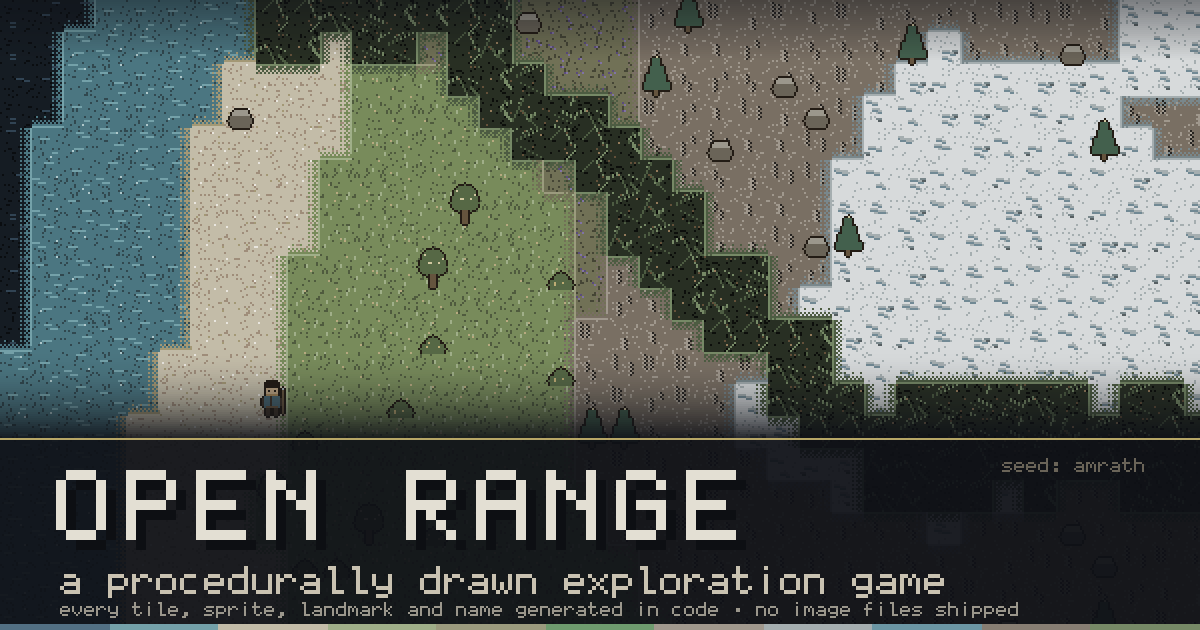
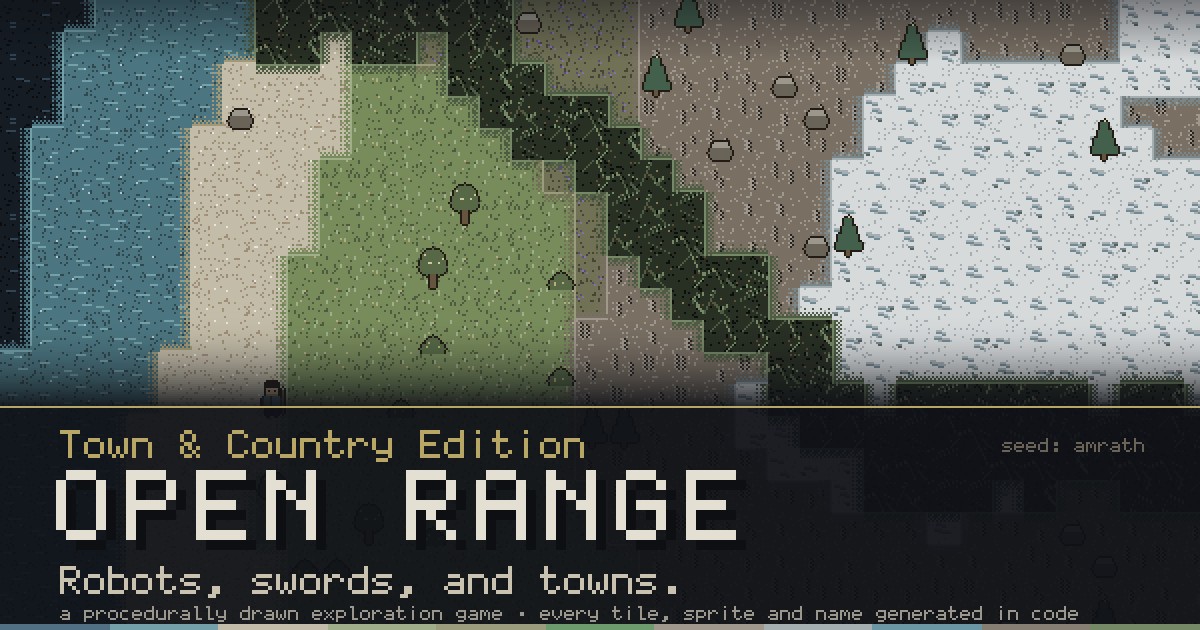
Reissue the card as the Town & Country Edition
The social card gains an edition name above the title and a line naming what is
actually in this build. The edition sits in the accent because it is the thing
that changed; the title is the thing that did not, and stays the largest words on
the card.

The two small lines below become one, so the band grows by exactly the one line
it gained rather than by two. The procedural claim survives in that merged line,
which is where it belongs now that the description is about the world rather than
about how the world is made.

Adding the name needed an ampersand, which the in-code 5x8 font did not have.
It is drawn here like every other glyph: five columns, a small bowl, and a tail
that kicks right on the baseline so it does not read as a lowercase e at title
size.

The landing hero is untouched, as it should be - it is captured before the title
band goes on, and it is the same frame of the same world it was.

Changed region(s): [[0.0, 0.5429, 1.0, 0.754], [0.0308, 0.9048, 0.8942, 0.9952]]

diff --git a/scripts/render-og-image.ts b/scripts/render-og-image.ts
@@ -219,7 +219,11 @@ async function main(): Promise<void> {
   // over textured terrain left the small lines barely readable. The band
   // guarantees contrast, and a short fade above it keeps the seam from looking
   // pasted on.
-  const BAND_H = 96;
+  // Taller than it was, by exactly the eyebrow line the edition name needs. The
+  // band is measured from the type it has to hold rather than chosen: every
+  // offset below is relative to `bandTop`, so this number and the layout cannot
+  // drift apart.
+  const BAND_H = 112;
   const FADE_H = 46;
   const bandTop = BASE_H - BAND_H;
 
@@ -242,17 +246,25 @@ async function main(): Promise<void> {
   ctx.fillRect(0, bandTop, BASE_W, 1);
 
   // --- Type ---
+  //
+  // Four lines, largest in the middle: the edition name sits above the title as
+  // an eyebrow, in the accent, because it is the thing that has changed and the
+  // title is the thing that has not. Below the title the description names what
+  // is actually in this build, and the fine print keeps the procedural claim.
   const TITLE_SCALE = 5;
   const TITLE_TRACKING = 1;
   const title = "OPEN RANGE";
   const left = 28;
-  const titleY = bandTop + 16;
+  const editionY = bandTop + 12;
+  const titleY = bandTop + 32;
+
+  drawText(ctx, "Town & Country Edition", left + 2, editionY, UI.accent, 2);
 
   drawTextShadowed(ctx, title, left, titleY, UI.parchment, "#0d0f13", TITLE_SCALE, TITLE_TRACKING);
 
   drawText(
     ctx,
-    "a procedurally drawn exploration game",
+    "Robots, swords, and towns.",
     left + 2,
     titleY + 8 * TITLE_SCALE + 8,
     UI.parchmentDim,
@@ -261,16 +273,17 @@ async function main(): Promise<void> {
 
   drawText(
     ctx,
-    "every tile, sprite, landmark and name generated in code · no image files shipped",
+    "a procedurally drawn exploration game · every tile, sprite and name generated in code",
     left + 2,
-    titleY + 8 * TITLE_SCALE + 26,
+    titleY + 8 * TITLE_SCALE + 28,
     SPRITE_PALETTE.stone,
     1,
   );
 
-  // Seed credit - the card is a real world you can go and open.
+  // Seed credit - the card is a real world you can go and open. Right-aligned on
+  // the eyebrow's line, which is the only line with room beside it.
   const credit = `seed: ${seed}`;
-  drawText(ctx, credit, BASE_W - measureText(credit, 1) - 28, bandTop + 10, SPRITE_PALETTE.stoneShade, 1);
+  drawText(ctx, credit, BASE_W - measureText(credit, 1) - 28, editionY + 4, SPRITE_PALETTE.stoneShade, 1);
 
   // Palette strip along the very bottom: the constraint box, made visible.
   const swatchWidth = BASE_W / TILE_SPECS.length;

diff --git a/lib/art/font.ts b/lib/art/font.ts
@@ -97,6 +97,12 @@ const GLYPHS: Readonly<Record<string, Glyph>> = {
   "8": [".###.", "#...#", "#...#", ".###.", "#...#", "#...#", ".###.", "....."],
   "9": [".###.", "#...#", "#...#", ".####", "....#", "...#.", ".##..", "....."],
 
+  // The ampersand is the one glyph here drawn for a specific piece of copy - an
+  // edition name - and it is the hardest shape to fit in five columns. The bowl
+  // is kept small and the tail kicks right on the baseline, which is what stops
+  // it reading as a lowercase "e" at title size.
+  "&": [".##..", "#..#.", "#..#.", ".##..", "#.#.#", "#..#.", ".##.#", "....."],
+
   ".": [".....", ".....", ".....", ".....", ".....", "..##.", "..##.", "....."],
   ",": [".....", ".....", ".....", ".....", ".....", "..##.", "..##.", ".##.."],
   "'": ["..#..", "..#..", ".....", ".....", ".....", ".....", ".....", "....."],

diff --git a/app/layout.tsx b/app/layout.tsx
@@ -33,7 +33,7 @@ export const metadata: Metadata = {
         url: "/og.png",
         width: 1200,
         height: 630,
-        alt: "A generated island in Open Range: sea, shallows, sand, meadow, bramble, bare highland and snow, with the title Open Range set in a pixel font.",
+        alt: "A generated island in Open Range: sea, shallows, sand, meadow, bramble, bare highland and snow, with the title Open Range set in a pixel font above the line Robots, swords, and towns, and the words Town and Country Edition above it.",
       },
     ],
   },

diff --git a/changelog.md b/changelog.md
@@ -9,6 +9,13 @@ the project uses semantic versioning.
 
 ### Added
 
+- Reissued the social card as the **Town & Country Edition**. The edition name
+  sits above the title in the accent, with `Robots, swords, and towns.` beneath
+  it, and the two small lines are merged into one so the band grows by exactly
+  the one line it gained. The card is still a real frame of a real generated
+  world drawn by the game's own atlas, and the landing hero — captured before the
+  title band goes on — is unchanged. Adding it needed an `&`, which the in-code
+  5×8 font did not have and now does.
 - Added the **map**, in two sizes. A small one sits in the top-right corner and
   is a button; clicking it, pressing `M`, or using the new **Map** control opens
   the whole island. Both are painted from the same `visited` bytes the fog of war
